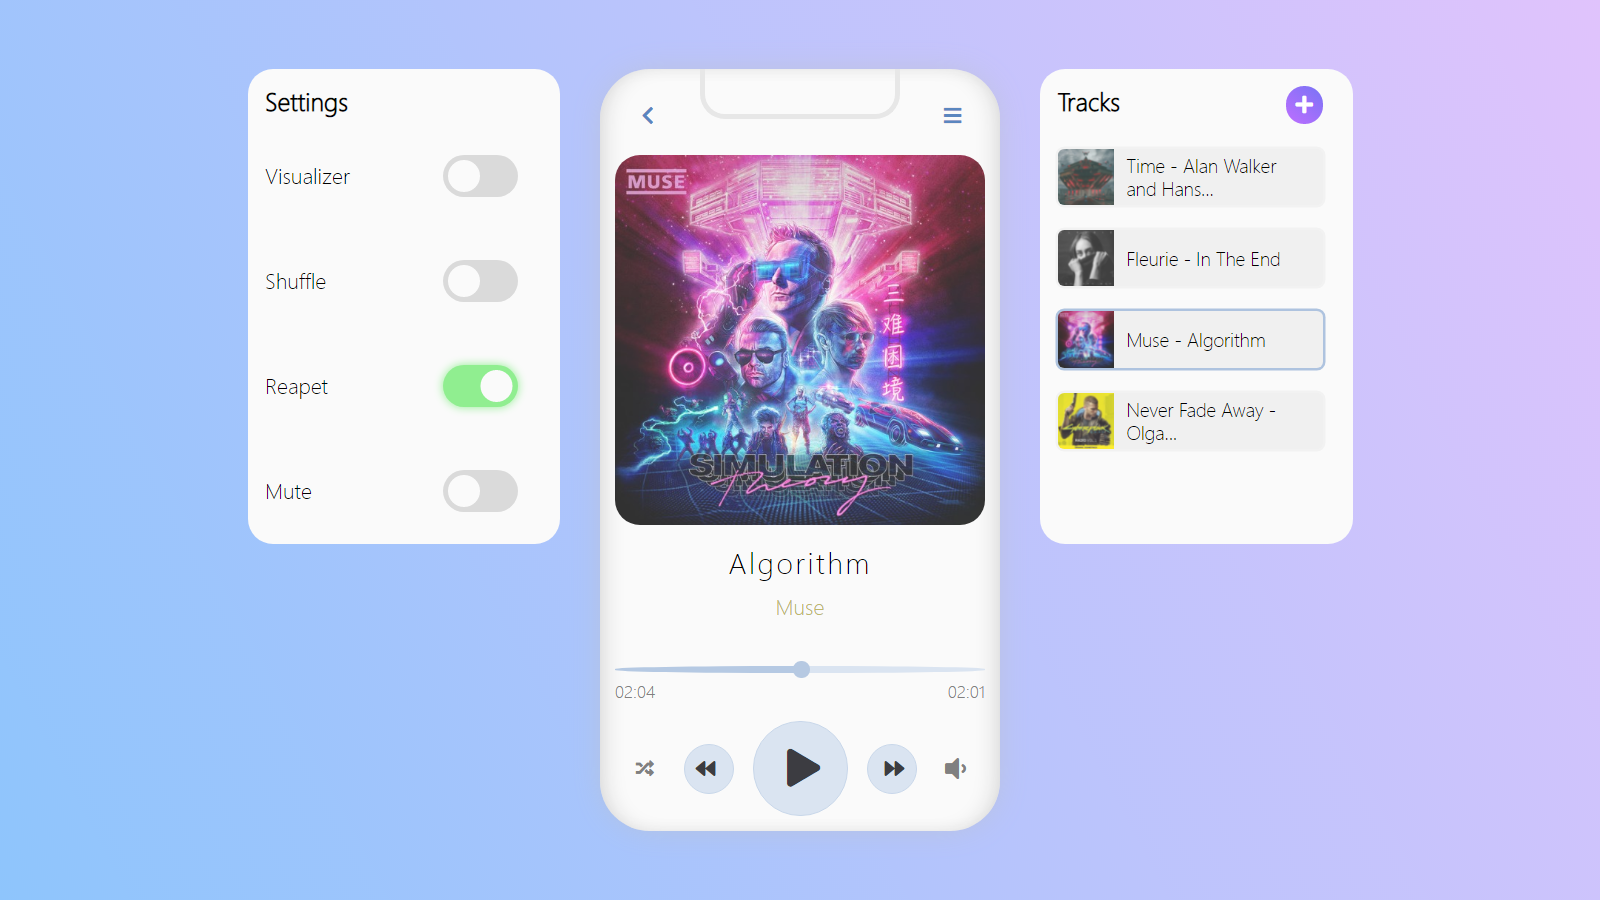
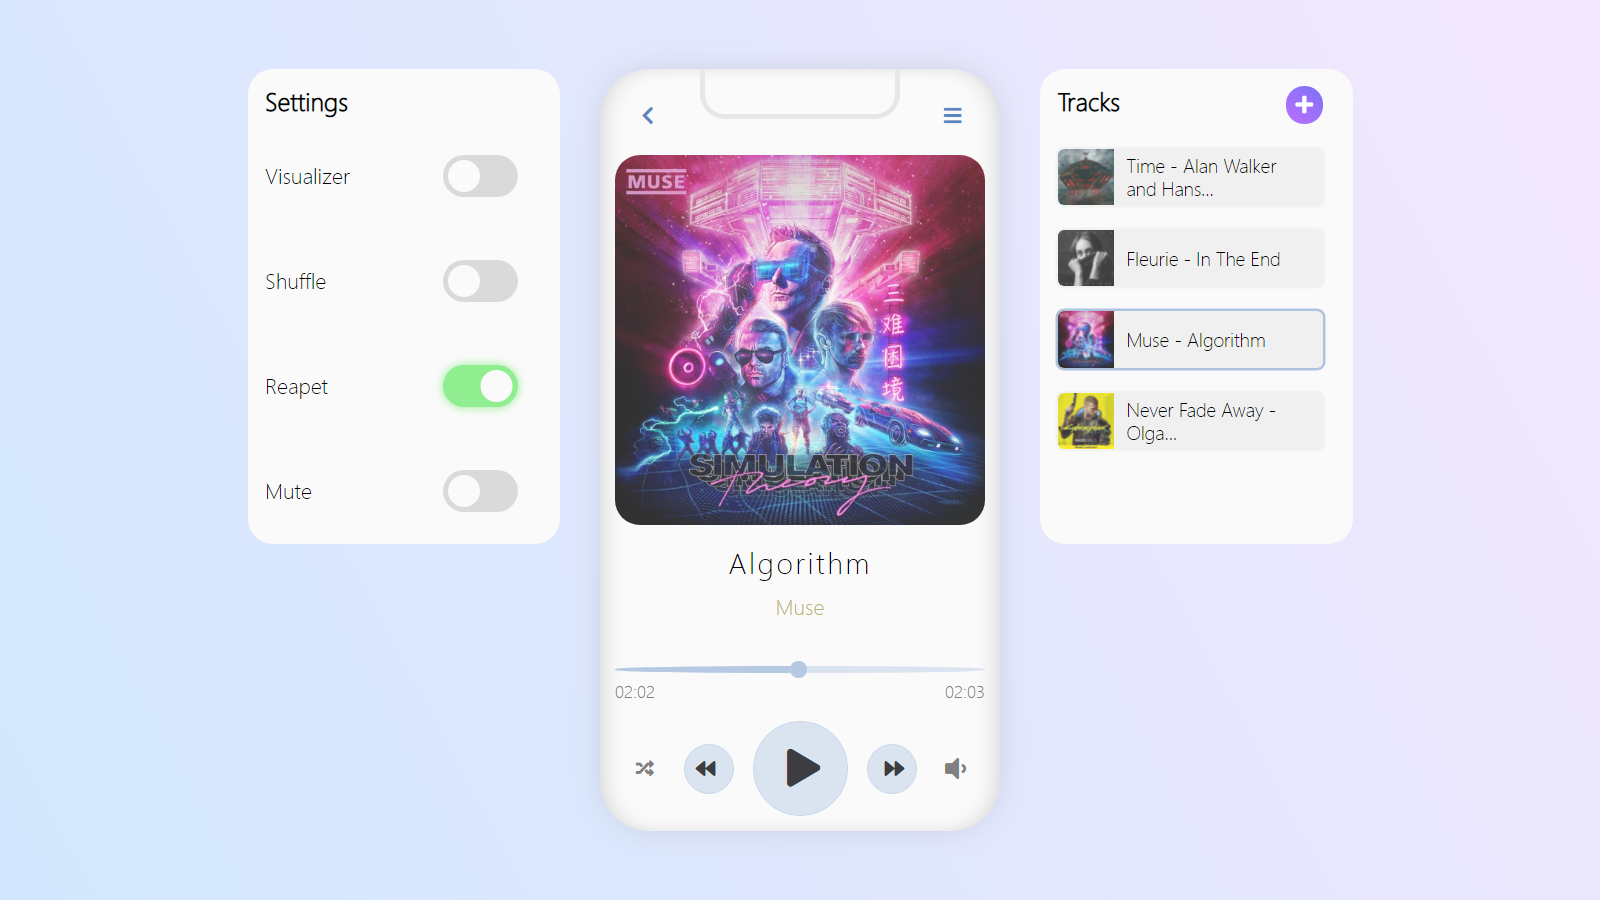
update readme

diff --git a/style.css b/style.css
@@ -8,8 +8,8 @@
 
 body {
   height: 100vh;
-  background-color: #8ec5fc;
-  background-image: linear-gradient(62deg, #8ec5fc 0%, #e0c3fc 100%);
+  /* background-color: #8ec5fc; */
+  background-image: linear-gradient(62deg, rgba(142, 197, 252, 0.4) 0%, rgba(224, 195, 252, 0.4) 100%);
   font-family: "@Microsoft Yahei Ui Light", sans-serif;
   user-select: none;
   display: flex;

diff --git a/README.md b/README.md
@@ -20,7 +20,7 @@
     <a href="#"><strong>Explore the docs »</strong></a>
     <br />
     <br />
-    <a href="#">View Demo</a>
+    <a href="https://miladxdev.github.io/vanilla-music-player/">View Demo</a>
     ·
     <a href="#">Report Bug</a>
     ·
@@ -62,7 +62,7 @@
 
 ![Product Name Screen Shot][product-screenshot]
 
-## LIVE DEMO ☝
+## [LIVE DEMO](https://miladxdev.github.io/vanilla-music-player/) ☝
 
 ### Built With
 
